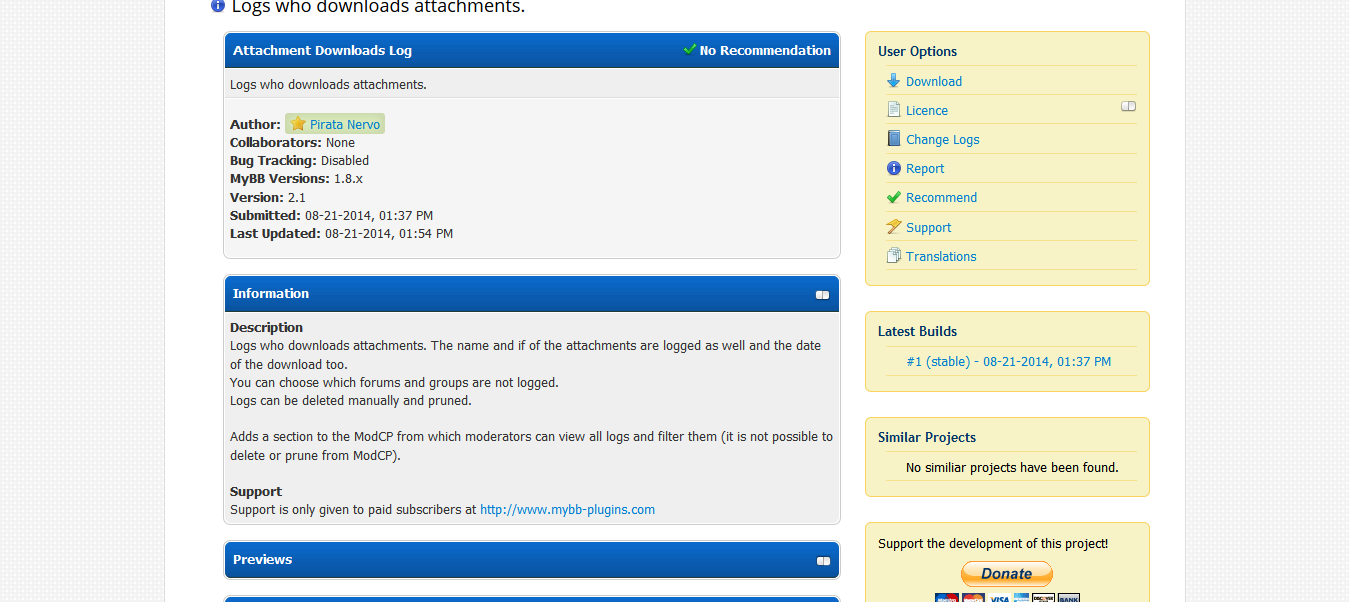
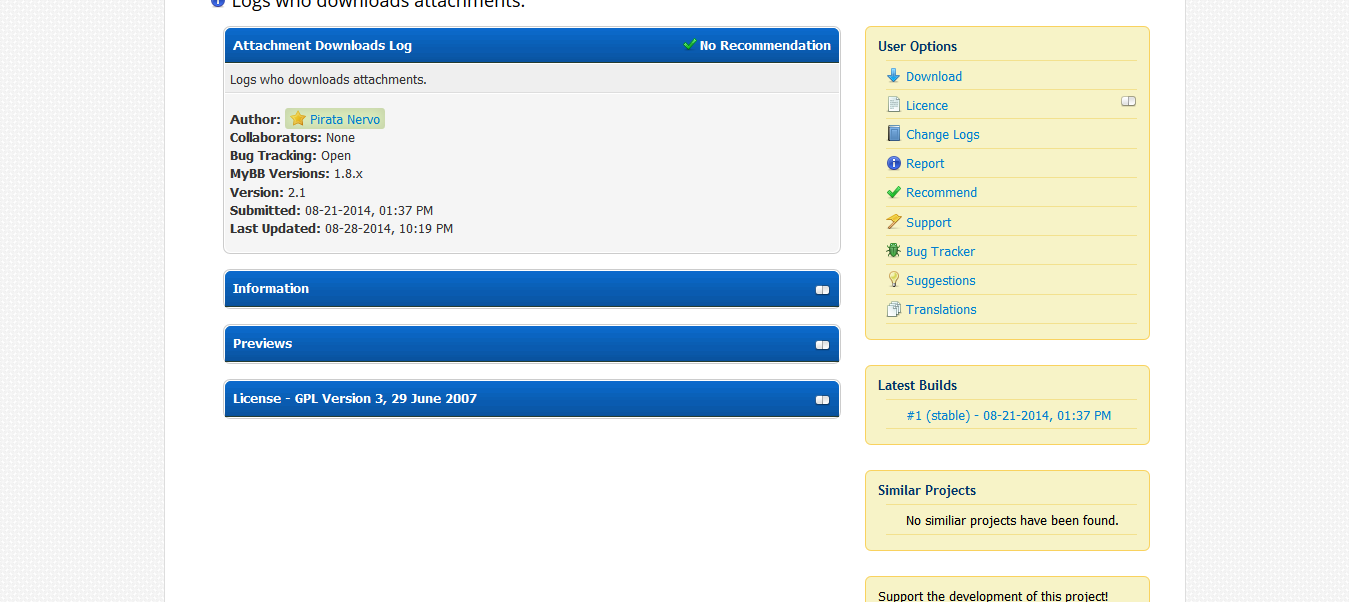
Mods Site Documentation

Changed region(s): [[0.1557, 0.0, 0.8718, 1.0], [0.1557, 0.8073, 0.4981, 0.8671]]

diff --git a/mods/downloaders.md b/mods/downloaders.md
@@ -59,7 +59,12 @@ On the right side, you can see the following options:
 
 - Support (either the support link entered by the project author or a link to the support forum on the MyBB Community)
 
+- Bug Tracker (you will see this option if it's been enabled by the project author)
+
+- Suggestions (you will see this option if it's been enabled by the project author)
+
 - Translations (translations posted by contributors or the project owner)
+
 
 
 #### Download
